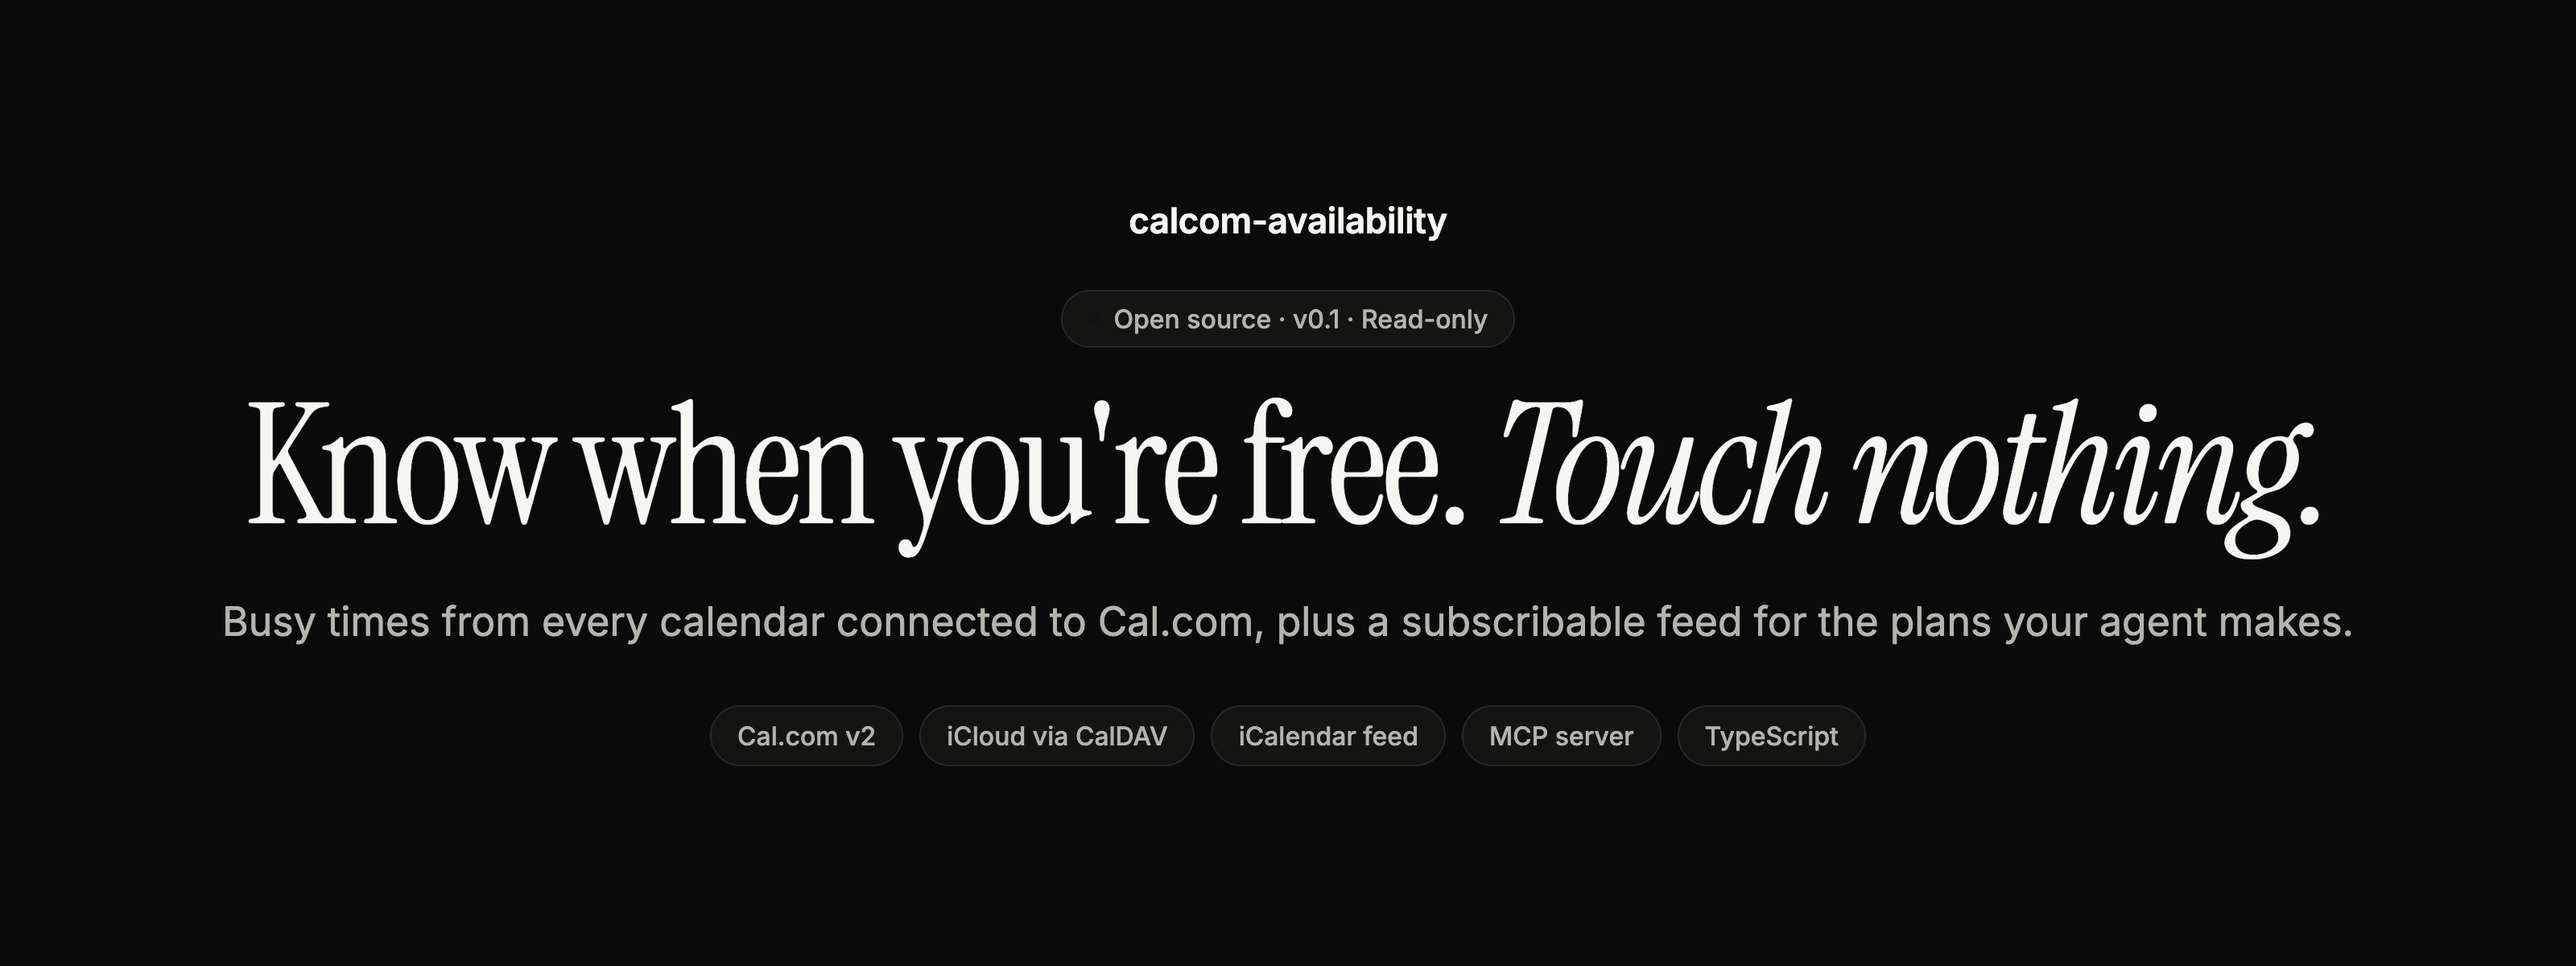
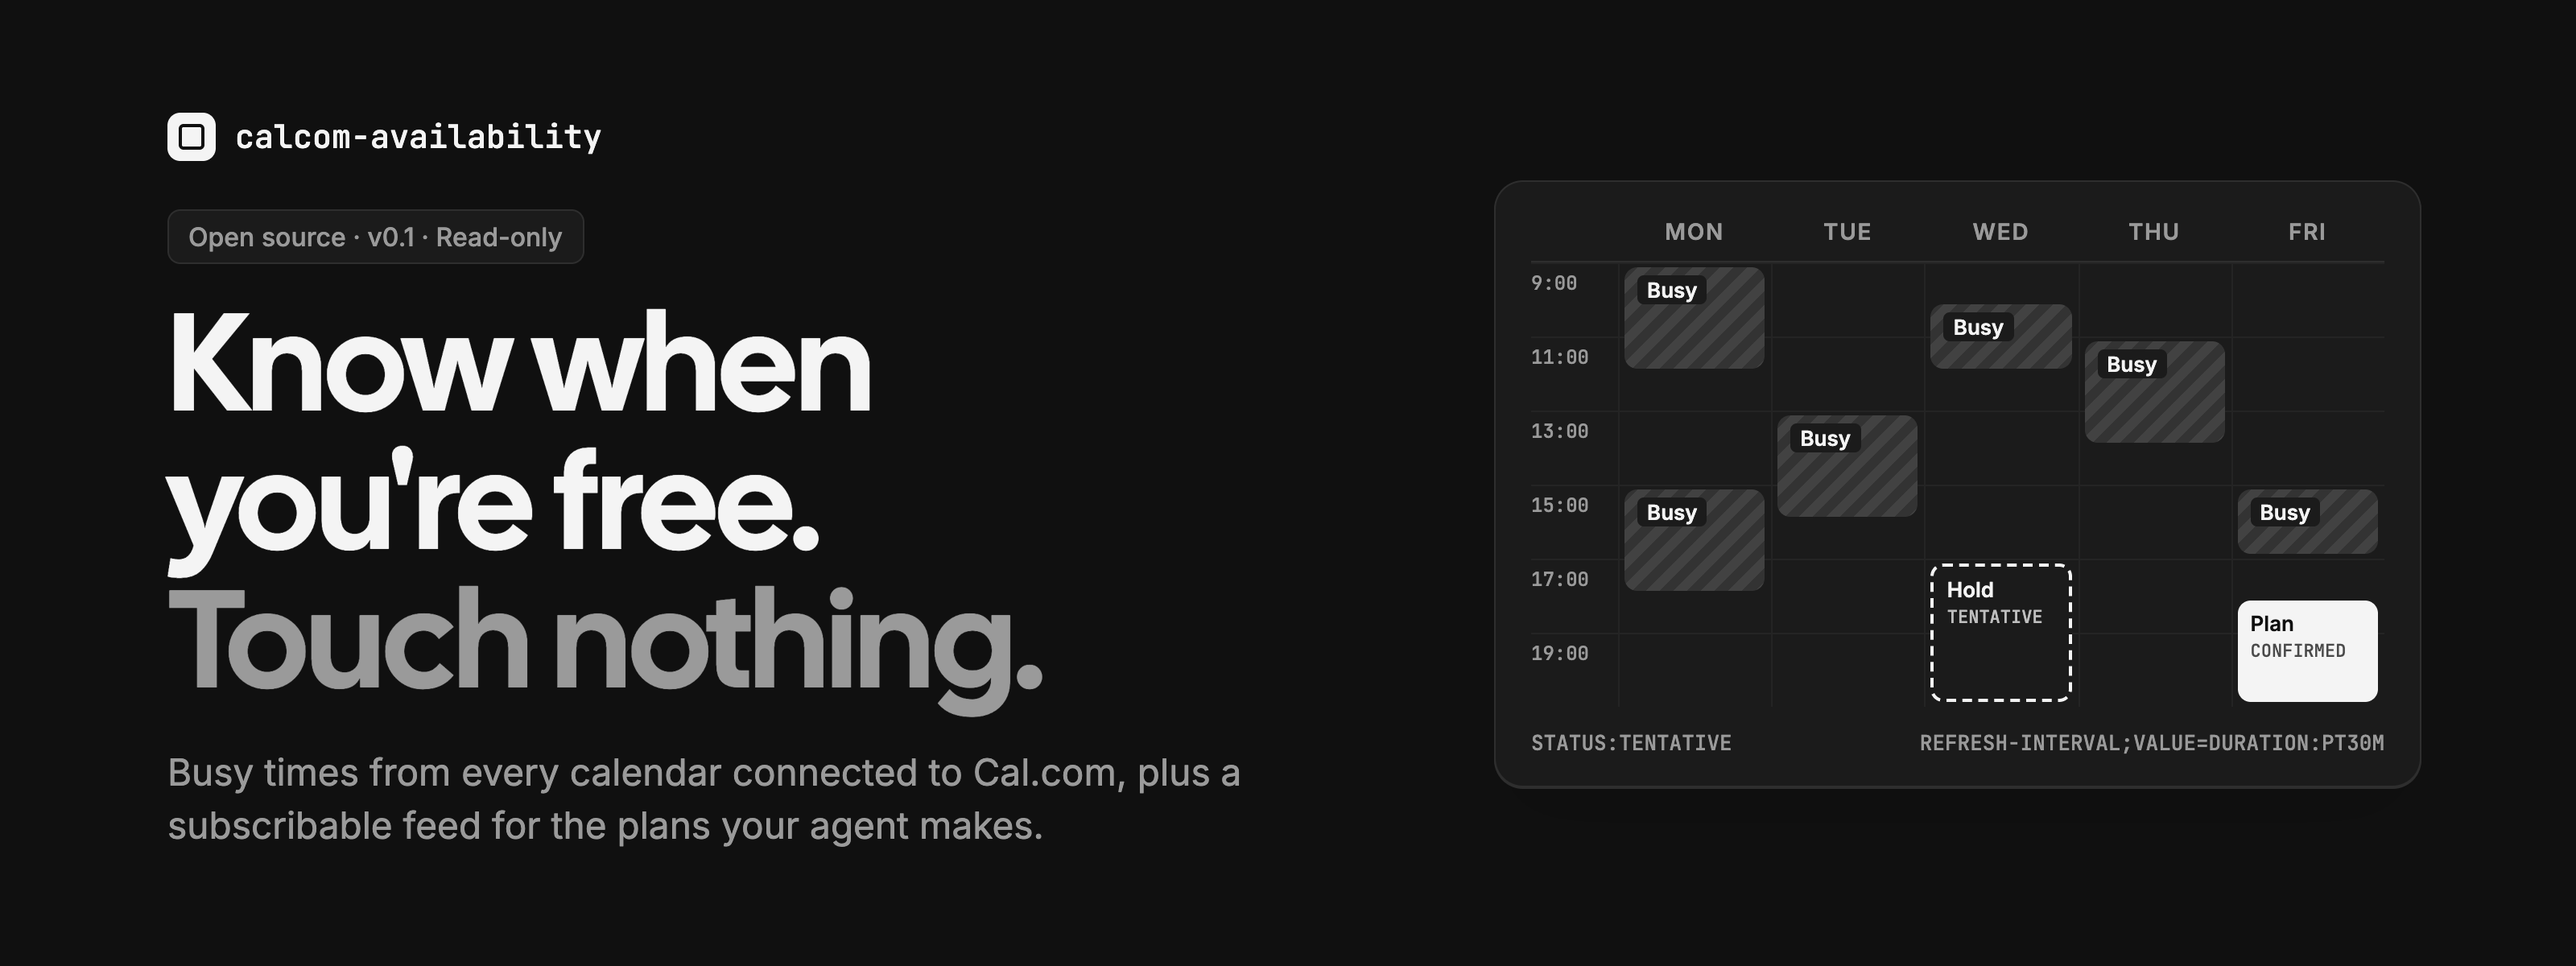
Give the README its own visual identity
New banner in Cal.com's monochrome palette (#242424, #F4F4F4, #898989, #E0E0E0) with Cal Sans, Inter and JetBrains Mono. Motif: a work-week grid showing only hatched Busy blocks, plus a dashed TENTATIVE hold and a solid CONFIRMED plan. Badges recolored; decorative emoji removed. Banner HTML source committed under .github/assets/source.

diff --git a/.github/assets/source/banner.html b/.github/assets/source/banner.html
@@ -1,0 +1,75 @@
+<!doctype html>
+<html lang="en">
+<head>
+<meta charset="utf-8">
+<title>calcom-availability banner</title>
+<!-- Cal Sans is Cal.com's open-source (OFL) display face; served here from Fontsource on jsDelivr. -->
+<link href="https://cdn.jsdelivr.net/npm/@fontsource/cal-sans@5/index.css" rel="stylesheet">
+<link rel="preconnect" href="https://fonts.googleapis.com">
+<link href="https://fonts.googleapis.com/css2?family=Inter:wght@400;500;600&family=JetBrains+Mono:wght@500&display=block" rel="stylesheet">
+<style>
+  /* calcom-availability identity: Cal.com's monochrome palette (#242424 ink, #f4f4f4 canvas, #898989 muted, #e0e0e0 lines) */
+  :root {
+    --bg: #f4f4f4; --card: #ffffff; --ink: #242424; --muted: #898989; --line: #e0e0e0; --soft: #ededed;
+    --busy: #d6d6d6; --busy2: #c4c4c4; --solid: #242424; --solid-ink: #ffffff;
+  }
+  @media (prefers-color-scheme: dark) {
+    :root {
+      --bg: #101010; --card: #1b1b1b; --ink: #f4f4f4; --muted: #9a9a9a; --line: #2e2e2e; --soft: #242424;
+      --busy: #333333; --busy2: #424242; --solid: #f4f4f4; --solid-ink: #101010;
+    }
+  }
+  * { box-sizing: border-box; margin: 0; }
+  html, body { width: 1600px; height: 600px; overflow: hidden; }
+  body {
+    background: var(--bg); color: var(--ink); font-family: "Inter", sans-serif;
+    display: grid; grid-template-columns: 760px 1fr; gap: 64px; padding: 0 96px 0 104px; align-items: center;
+  }
+  .name { font: 500 20px "JetBrains Mono"; color: var(--ink); display: flex; align-items: center; gap: 12px; }
+  .name i { width: 30px; height: 30px; border-radius: 8px; background: var(--solid); display: grid; place-items: center; }
+  .name i::after { content: ""; width: 12px; height: 12px; border: 2.5px solid var(--solid-ink); border-radius: 3px; }
+  .tag { margin-top: 30px; display: inline-block; font: 500 16px "Inter"; color: var(--muted); border: 1px solid var(--line); background: var(--card); border-radius: 8px; padding: 6px 12px; }
+  h1 { margin-top: 18px; font: 400 86px/1.0 "Cal Sans", sans-serif; letter-spacing: -0.01em; }
+  h1 span { color: var(--muted); }
+  .sub { margin-top: 24px; font: 400 23px/1.45 "Inter"; color: var(--muted); max-width: 680px; }
+
+  /* Signature motif: a week grid that shows only "busy", plus a tentative hold from the feed */
+  .cal { background: var(--card); border: 1px solid var(--line); border-radius: 18px; padding: 22px 22px 18px; box-shadow: 0 1px 0 var(--line), 0 24px 50px rgba(0,0,0,.06); }
+  .head { display: grid; grid-template-columns: 54px repeat(5, 1fr); font: 600 14px "Inter"; color: var(--muted); text-transform: uppercase; letter-spacing: .06em; padding-bottom: 10px; border-bottom: 1px solid var(--line); }
+  .head div { text-align: center; }
+  .grid { position: relative; display: grid; grid-template-columns: 54px repeat(5, 1fr); grid-template-rows: repeat(6, 46px); }
+  .hr { font: 500 12px "JetBrains Mono"; color: var(--muted); padding-top: 4px; border-top: 1px solid var(--soft); }
+  .cell { border-top: 1px solid var(--soft); border-left: 1px solid var(--soft); }
+  .ev { position: absolute; border-radius: 8px; font: 600 13px "Inter"; padding: 6px 8px; overflow: hidden; }
+  .busy { background: repeating-linear-gradient(135deg, var(--busy) 0 6px, var(--busy2) 6px 12px); color: var(--ink); }
+  .busy b { background: var(--card); border-radius: 4px; padding: 1px 6px; font-weight: 600; }
+  .tent { border: 2px dashed var(--ink); background: var(--card); color: var(--ink); }
+  .conf { background: var(--solid); color: var(--solid-ink); }
+  .ev small { display: block; font: 500 11px "JetBrains Mono"; opacity: .75; margin-top: 2px; }
+  .ics { margin-top: 14px; font: 500 13px "JetBrains Mono"; color: var(--muted); display: flex; justify-content: space-between; }
+</style>
+</head>
+<body>
+  <div>
+    <div class="name"><i></i>calcom-availability</div>
+    <div class="tag">Open source · v0.1 · Read-only</div>
+    <h1>Know when<br>you're free.<br><span>Touch nothing.</span></h1>
+    <p class="sub">Busy times from every calendar connected to Cal.com, plus a subscribable feed for the plans your agent makes.</p>
+  </div>
+  <div class="cal" aria-hidden="true">
+    <div class="head"><div></div><div>Mon</div><div>Tue</div><div>Wed</div><div>Thu</div><div>Fri</div></div>
+    <div class="grid" id="g"></div>
+    <div class="ics"><span>STATUS:TENTATIVE</span><span>REFRESH-INTERVAL;VALUE=DURATION:PT30M</span></div>
+  </div>
+  <script>
+    // Build the empty grid, then place illustrative blocks (no titles: busy intervals carry start and end only).
+    const g = document.getElementById('g'); const hours = ['9:00','11:00','13:00','15:00','17:00','19:00'];
+    hours.forEach(h => { const t = document.createElement('div'); t.className = 'hr'; t.textContent = h; g.appendChild(t); for (let i = 0; i < 5; i++) { const c = document.createElement('div'); c.className = 'cell'; g.appendChild(c); } });
+    const col = d => `calc(54px + (100% - 54px) * ${d} / 5 + 4px)`, w = 'calc((100% - 54px) / 5 - 8px)';
+    const add = (cls, d, r0, r1, html) => { const e = document.createElement('div'); e.className = 'ev ' + cls; e.style.left = col(d); e.style.width = w; e.style.top = (r0 * 46 + 3) + 'px'; e.style.height = ((r1 - r0) * 46 - 6) + 'px'; e.innerHTML = html; g.appendChild(e); };
+    add('busy', 0, 0, 1.5, '<b>Busy</b>'); add('busy', 1, 2, 3.5, '<b>Busy</b>'); add('busy', 2, 0.5, 1.5, '<b>Busy</b>');
+    add('busy', 3, 1, 2.5, '<b>Busy</b>'); add('busy', 4, 3, 4, '<b>Busy</b>'); add('busy', 0, 3, 4.5, '<b>Busy</b>');
+    add('tent', 2, 4, 6, 'Hold<small>TENTATIVE</small>'); add('conf', 4, 4.5, 6, 'Plan<small>CONFIRMED</small>');
+  </script>
+</body>
+</html>

diff --git a/README.md b/README.md
@@ -18,10 +18,10 @@
 </p>
 
 <p align="center">
-  <a href="LICENSE"><img alt="License: MIT" src="https://img.shields.io/badge/license-MIT-111111?style=flat-square"></a>
-  <img alt="TypeScript library and MCP server" src="https://img.shields.io/badge/TypeScript%20%C2%B7%20MCP-111111?style=flat-square">
-  <a href="https://github.com/mihirkavi/calcom-availability/actions/workflows/ci.yml"><img alt="CI" src="https://img.shields.io/github/actions/workflow/status/mihirkavi/calcom-availability/ci.yml?branch=main&style=flat-square&label=CI&color=111111"></a>
-  <img alt="Status: v0.1, not yet tested against a live account" src="https://img.shields.io/badge/status-v0.1%20%C2%B7%20unverified%20live-6b6b6b?style=flat-square">
+  <a href="LICENSE"><img alt="License: MIT" src="https://img.shields.io/badge/license-MIT-242424?style=flat-square"></a>
+  <img alt="TypeScript library and MCP server" src="https://img.shields.io/badge/TypeScript%20%C2%B7%20MCP-242424?style=flat-square">
+  <a href="https://github.com/mihirkavi/calcom-availability/actions/workflows/ci.yml"><img alt="CI" src="https://img.shields.io/github/actions/workflow/status/mihirkavi/calcom-availability/ci.yml?branch=main&style=flat-square&label=CI&color=242424"></a>
+  <img alt="Status: v0.1, not yet tested against a live account" src="https://img.shields.io/badge/status-v0.1%20%C2%B7%20unverified%20live-898989?style=flat-square">
 </p>
 
 <p align="center">
@@ -38,15 +38,15 @@ An agent that plans things for you (dinners, meetups, trips) needs two things fr
 <table>
   <tr>
     <td width="33%" valign="top">
-      <h3>🙈 Busy, not details</h3>
+      <h3>Busy, not details</h3>
       Results contain start, end and an optional source label. Event titles and attendees are never returned.
     </td>
     <td width="33%" valign="top">
-      <h3>📅 Plans you can unsubscribe from</h3>
+      <h3>Plans you can unsubscribe from</h3>
       <code>TENTATIVE</code> holds, <code>CONFIRMED</code> plans and <code>CANCELLED</code> retractions, in a standard RFC 5545 feed.
     </td>
     <td width="33%" valign="top">
-      <h3>🪶 Small and plain</h3>
+      <h3>Small and plain</h3>
       Two library files with no runtime dependencies, plus an optional two-tool MCP server.
     </td>
   </tr>

diff --git a/.github/assets/README.md b/.github/assets/README.md
@@ -4,8 +4,18 @@ Images used by the root `README.md`.
 
 | File | What it is | How it was made |
 | --- | --- | --- |
-| `banner-light.png`, `banner-dark.png` | Title banner for light and dark GitHub themes | Rendered from an HTML template with headless Chrome (Playwright) at 3200 × 1200 |
+| `banner-light.png`, `banner-dark.png` | Title banner for light and dark GitHub themes | Rendered from [`source/banner.html`](source/banner.html) with headless Chrome (Playwright) at 3200 × 1200. See [`source/README.md`](source/README.md) |
 | `terminal.png` | Terminal card: `npm test`, the MCP server refusing to start without a key, and `buildCalendar` output | Real output from running the commands locally on 2026-10-26 with synthetic data and no API key; the iCalendar output is trimmed to key lines |
 | `how-it-works.svg` | Diagram of the read path (Cal.com busy times) and write path (subscribed feed) | Hand-written SVG |
+
+## Visual identity
+
+calcom-availability borrows Cal.com's quiet, monochrome product look, since it reads from Cal.com.
+
+- **Colors** from cal.com's live CSS: ink `#242424`, canvas `#F4F4F4`, muted `#898989`, lines `#E0E0E0`, white cards. Dark theme: `#101010` background, `#1B1B1B` cards, `#F4F4F4` text.
+- **Type:** Cal Sans (Cal.com's open-source display face, OFL, via Fontsource), Inter (body), JetBrains Mono (iCalendar properties).
+- **Motif:** a work-week grid where events show only as hatched "Busy" blocks, plus a dashed `TENTATIVE` hold and a solid `CONFIRMED` plan from the feed.
+- **README:** badges in `242424`, status in `898989`; no decorative emoji, matching developer-docs tone.
+- No Cal.com logo is used; the project is independent of Cal.com.
 
 Rules for agents: images must never show a real calendar, event titles, attendees, API keys or feed URLs. Use synthetic data only.

diff --git a/.github/assets/source/README.md b/.github/assets/source/README.md
@@ -1,0 +1,22 @@
+# Banner source
+
+`banner.html` is the self-contained design for `../banner-light.png` and `../banner-dark.png`. One file holds both themes: its `@media (prefers-color-scheme: dark)` block switches the palette.
+
+## Re-render
+
+Render it with any headless Chrome at a 1600 × 600 viewport and device scale factor 2, once with `prefers-color-scheme: light` and once with `dark`. For example, with Playwright:
+
+```js
+const page = await browser.newPage({ viewport: { width: 1600, height: 600 }, deviceScaleFactor: 2, colorScheme: 'dark' });
+await page.goto('file://' + path.resolve('.github/assets/source/banner.html'));
+await page.evaluate(() => document.fonts.ready);
+await page.screenshot({ path: '.github/assets/banner-dark.png' });
+```
+
+Fonts load from Fontsource on jsDelivr (Cal Sans) and Google Fonts (Inter, JetBrains Mono), so rendering needs network access. There is no logo file; the mark is drawn in CSS.
+
+## Notes for agents
+
+- Edit the HTML, then re-render both PNGs. Never edit the PNGs by hand.
+- Keep the banner free of personal data, real account content, tokens and invented product output.
+- The week grid is illustrative. Busy blocks carry only the word "Busy", matching what the library returns (start and end, no titles). `STATUS:TENTATIVE` and `REFRESH-INTERVAL` are real properties written by `src/ics.ts`.
